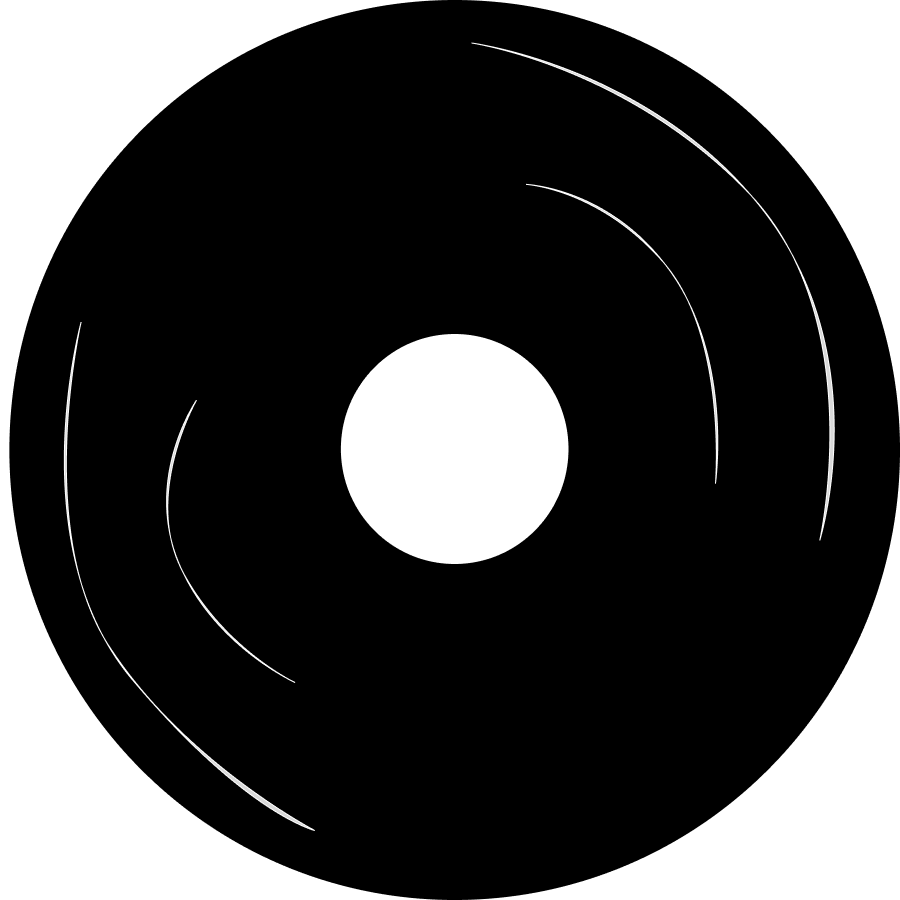
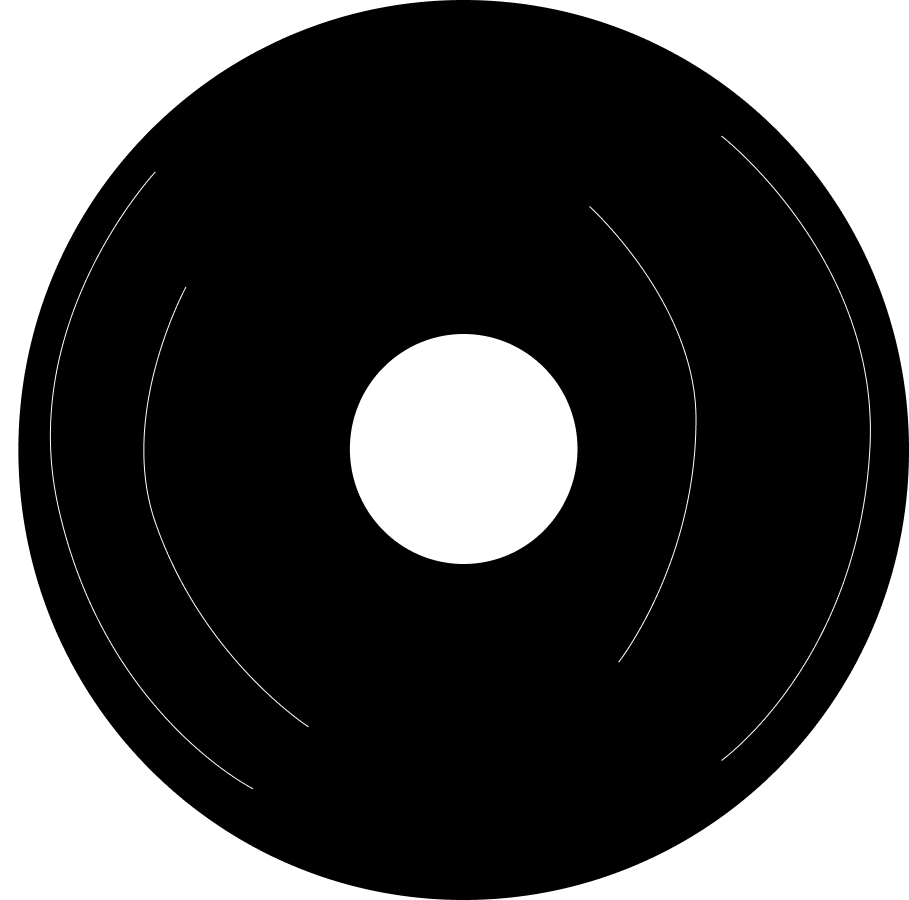
trying to make website responsive (in progress)

diff --git a/frontend/src/App.css b/frontend/src/App.css
@@ -1,32 +1,26 @@
+html, body, #root {
+  margin: 0;
+  width: 100%;
+  min-height: 100vh;
+  overflow: hidden;
+  position: relative;
+}
+
 #root {
-  size: contain;
-  max-width: 1280px;
-  margin: 0 auto;
-  padding: 2rem;
-  text-align: center;
-  background-position: center;
-  position:absolute;
+  padding: 0;
+  max-width: none;
+  display: flex;
+  justify-content: center;
+  align-items: center;
+  
 }
 
 body{
-  background-color: rgba(103, 192, 216, 1);
-  overflow: hidden;
+  background-color: #D9EBFF;
+  position: relative;
+
 }
 
-.fileButton {
-  background-image: url('../components/main_page/file explorer.png');
-  background-size: contain;
-  background-repeat: no-repeat;
-  background-position: center;
-  width: 80px;
-  height: 80px;
-  position: absolute;
-  left: 400px;
-  top: 550px;
-  border: none;
-  background-color: transparent;
-  cursor: pointer;
-}
 
 .mainWindow {
   background-image: url('../components/main_page/main window.png');
@@ -75,6 +69,76 @@ body{
 	-webkit-animation: rotate-scale-up 3s linear infinite both;
 	        animation: rotate-scale-up 3s linear infinite both;
 }
+.page{
+  position: relative;
+  width: 100vw;
+  height: 100vh;
+  overflow: hidden;
+}
+.menuButtons{
+  position: absolute;
+  left: 65%;
+  top: 55%;
+  transform: translate(-50%, -50%);
+
+  display: flex;
+  gap: clamp(20px, 5vw, 80px);
+}
+.about, .links, .work, .contact{
+  width:clamp(50px, 8vw, 80px);
+  height: clamp(50px, 8vw, 80px);
+  background-size: contain;
+  background-repeat: no-repeat; 
+}
+.about{
+  background-image: url('../components/main_page/about logo.png');
+  border: none;
+  background-color: transparent;
+  cursor: pointer;
+}
+.links{
+  background-image: url('../components/main_page/links logo.png');
+  border: none;
+  background-color: transparent;
+  cursor: pointer;
+}
+.contact{
+  background-image: url('../components/main_page/contact logo.png');
+  border: none;
+  background-color: transparent;
+  cursor: pointer;
+}
+.work{
+  background-image: url('../components/main_page/work logo.png');
+  border: none;
+  background-color: transparent;
+  cursor: pointer;
+}
+.fox{
+  background-image: url('../components/main_page/fox.png');
+  background-size: contain;
+  background-repeat: no-repeat;
+  background-position: center;
+  position: absolute;
+  width: 285.35px;
+  height: 207.28px;
+  position: absolute;
+  left: 80%;
+  top: 1500%;
+  background-color: transparent;
+}
+.name{
+  background-image: url('../components/main_page/name.png');
+  background-size: contain;
+  background-repeat: no-repeat;
+  background-position: center;
+  width:clamp(300px, 80vw, 650px);
+  height: clamp(300px, 80vw, 205px);
+  position: absolute;
+  left: 40%;
+  top: 0;
+  background-color: transparent;
+}
 .cloud1 {
   background-image: url('../components/main_page/cloud1.png');
   background-repeat: no-repeat;
@@ -97,17 +161,21 @@ body{
   background-color: transparent;
   animation: move-right-to-left 10s linear infinite;
 }
-.vinyl{
- background-image: url('../components/main_page/vinyl.png');
-   background-size: contain;
+
+.vinyl {
+  position: absolute;
+  left: -50vw;
+  top: 10px;
+
+  width: clamp(400px, 80vw, 600px);
+  height: clamp(400px, 80vw, 600px);
+
+  transform: translate(-50%, -50%); 
+
+  background-image: url('../components/main_page/vinyl.png');
+  background-size: contain;
   background-repeat: no-repeat;
   background-position: center;
-  width: 600px;
-  height: 600px;
-  position: absolute;
-  left: -330px;
-  top: 15px;
-  background-color: transparent;
 }
 
 @keyframes logo-spin {

diff --git a/frontend/src/App.jsx b/frontend/src/App.jsx
@@ -6,23 +6,43 @@ export default function App() {
   const [mainWindow, setMainWindow] = useState(false);
   const audio = useRef(null);
 return (
-  <div>
+    <div className="page">
     <audio ref={audio} src={dropSound} />
     <div className="cloud1"></div>
     <div className="cloud2"></div>
     <div className="vinyl rotate-scale-up"></div>
+    <div className="fox"></div>
+    <div className="name"></div>
+
+    <div className="menuButtons">
     <button
       type="button"
-      className="fileButton"
+      className="about"
       onClick={() => {audio.current.currentTime = 0; audio.current.play(); setMainWindow(!mainWindow)}}
     ></button>
+    <button
+      type="button"
+      className="links"
+      onClick={() => {audio.current.currentTime = 0; audio.current.play(); setMainWindow(!mainWindow)}}
+    ></button>
+    <button
+      type="button"
+      className="contact"
+      onClick={() => {audio.current.currentTime = 0; audio.current.play(); setMainWindow(!mainWindow)}}
+    ></button>
+    <button
+      type="button"
+      className="work"
+      onClick={() => {audio.current.currentTime = 0; audio.current.play(); setMainWindow(!mainWindow)}}
+    ></button>
+    </div>
 
     {mainWindow && (
       <div className="mainWindow">
           <button type="button" className="exit" onClick={() => {audio.current.currentTime = 0; audio.current.play(); setMainWindow(!mainWindow)}}></button>
       </div>
     )}
-
+  
   </div>
 );
 }